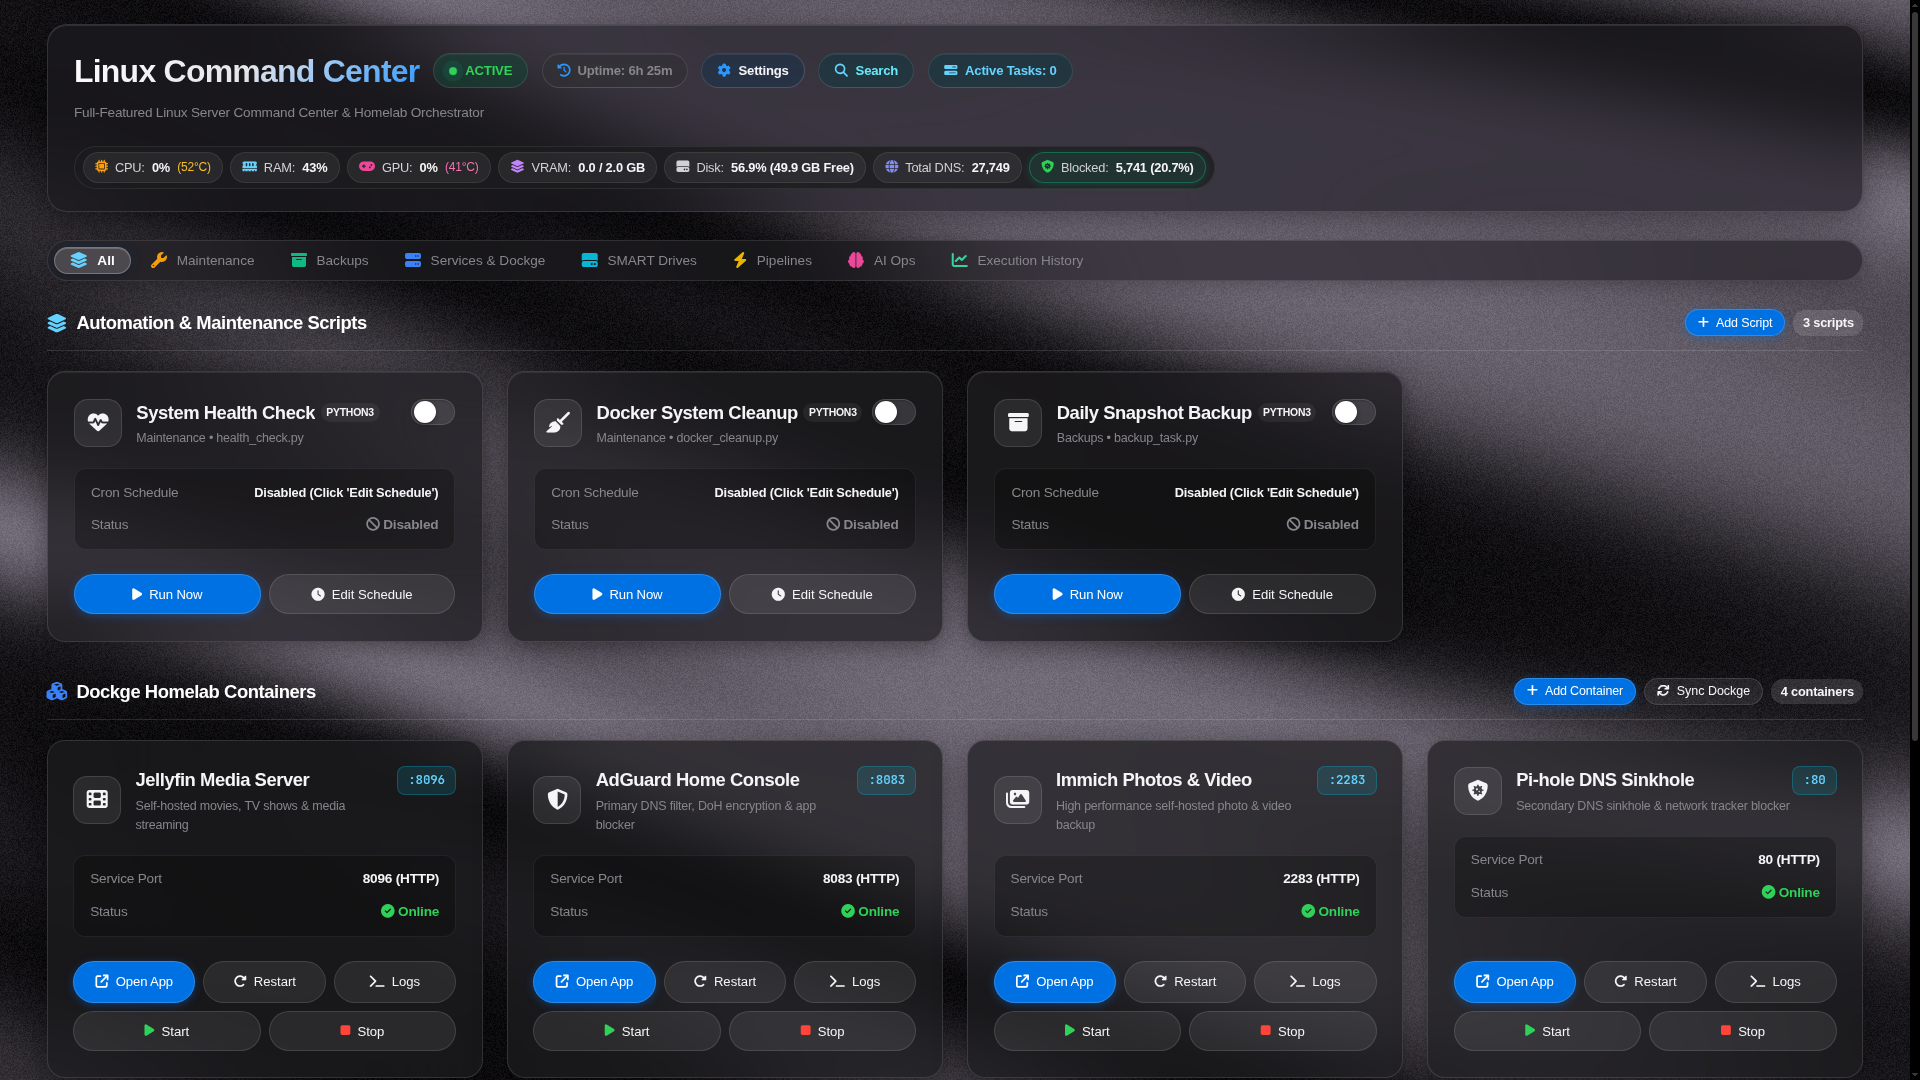
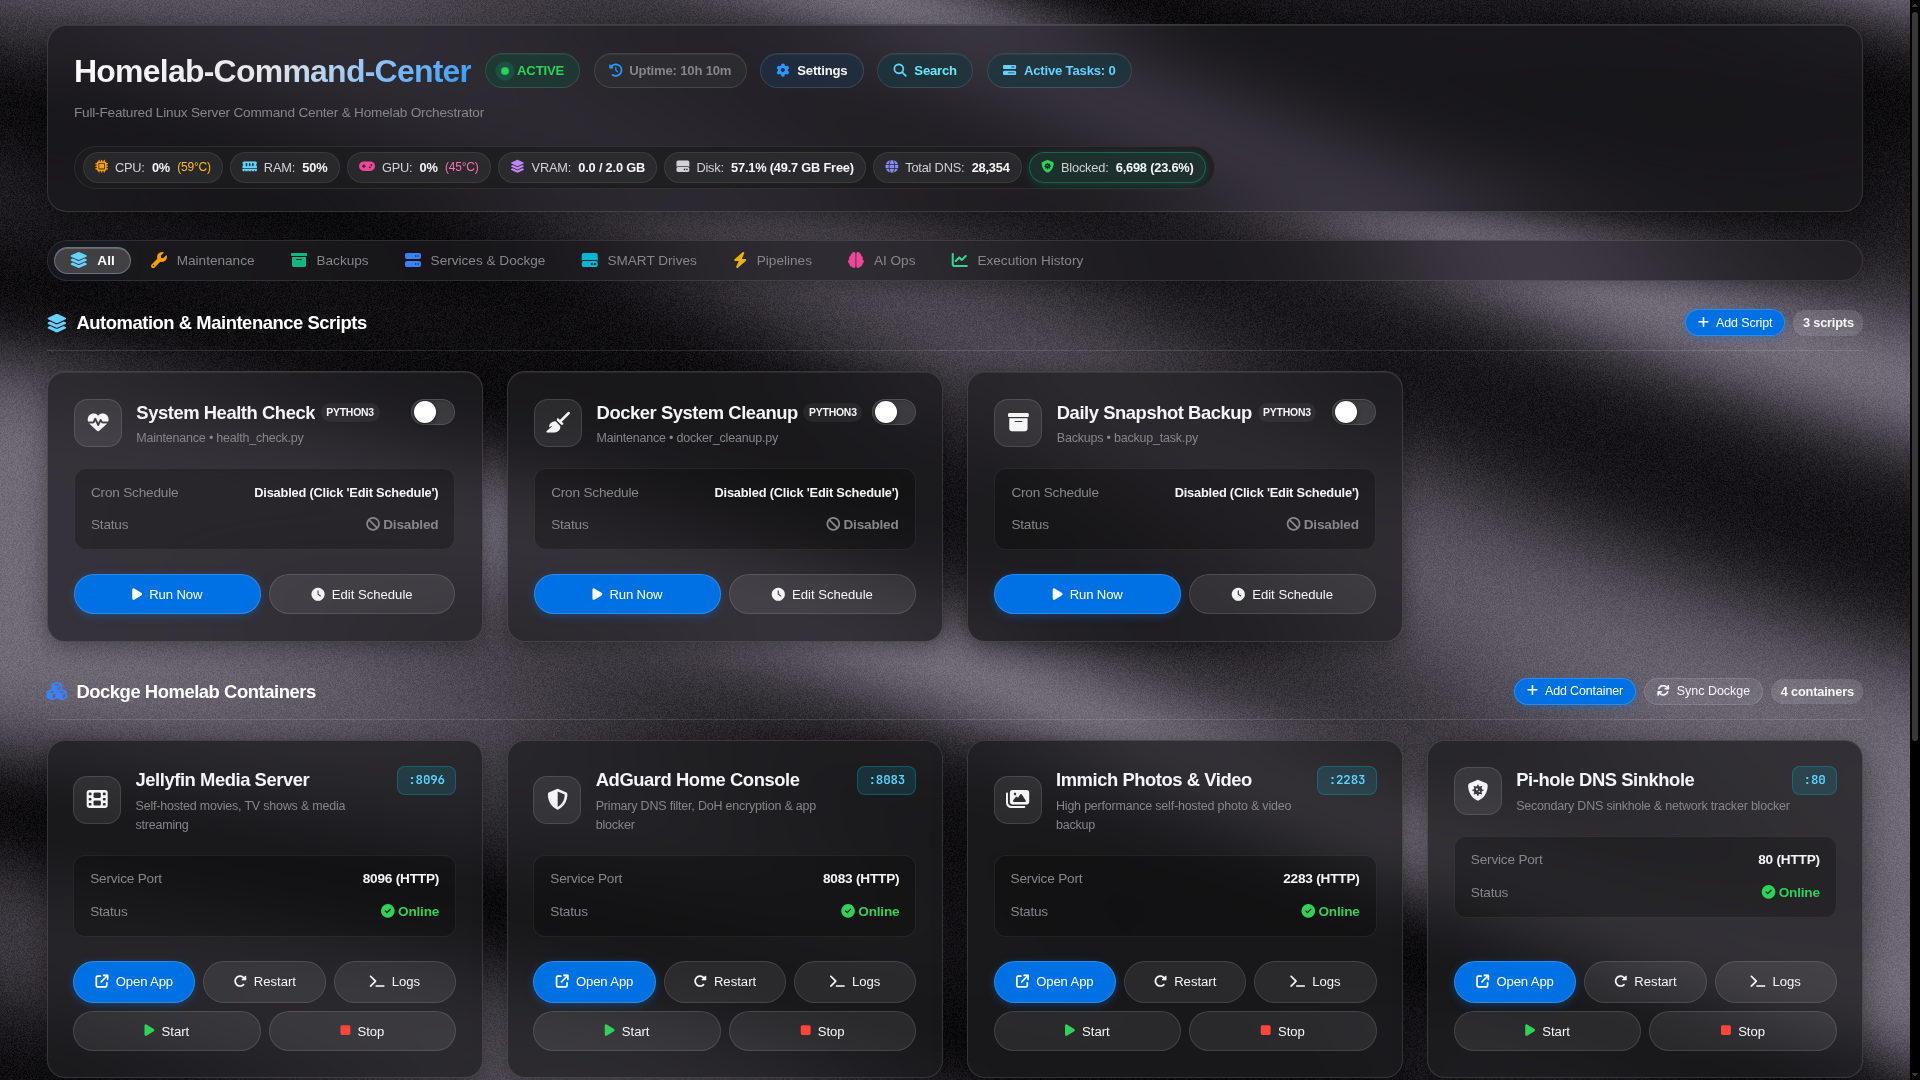
chore(branding): rename project to Homelab-Command-Center and refresh showcase media

diff --git a/templates/index.html b/templates/index.html
@@ -3,7 +3,7 @@
 <head>
     <meta charset="UTF-8">
     <meta name="viewport" content="width=device-width, initial-scale=1.0, viewport-fit=cover">
-    <title>Linux Command Center</title>
+    <title>Homelab-Command-Center</title>
 
     <!-- Standard Favicon (PNG, ICO, or SVG) -->
     <link rel="icon" type="image/png" href="{{ url_for('static', filename='favicon.png') }}">
@@ -38,7 +38,7 @@
         <div class="header-left-col">
             <div class="header-top-row">
                 <div class="brand-title-group">
-                    <h1>Linux Command Center</h1>
+                    <h1>Homelab-Command-Center</h1>
                     <div id="env-badge" class="badge-live" style="background: rgba(48, 209, 88, 0.15); color: #30d158; border-color: rgba(48, 209, 88, 0.35);">
                         <div class="pulse-dot" id="env-pulse-dot" style="background: #30d158;"></div>
                         <span id="env-label">ACTIVE</span>

diff --git a/templates/lite.html b/templates/lite.html
@@ -841,7 +841,7 @@
     </div>
 
     <div class="footer" onclick="testPixelShift()">
-        Linux Command Center &bull; Low Bandwidth Mode &bull; Mobile & Android Compatible
+        Homelab-Command-Center &bull; Low Bandwidth Mode &bull; Mobile & Android Compatible
     </div>
 
     <script>

diff --git a/static/sw.js b/static/sw.js
@@ -1,5 +1,5 @@
 // Progressive Web App Service Worker
-const CACHE_NAME = 'linux-command-center-v1';
+const CACHE_NAME = 'homelab-command-center-v1';
 
 self.addEventListener('install', (event) => {
     self.skipWaiting();

diff --git a/routes/scripts.py b/routes/scripts.py
@@ -516,7 +516,7 @@ def fetch_log_content_for_id(script_id, max_chars=25000):
     # 3. Check if script_id is a verified systemd unit
     systemd_services = get_all_systemd_services()
     u_match = next((s for s in systemd_services if s.get("id") == script_id or s.get("unit", "").startswith(script_id)), None)
-    if u_match or script_id in ["jellyfin", "all-in-one-dash", "linux-command-center"]:
+    if u_match or script_id in ["jellyfin", "all-in-one-dash", "homelab-command-center", "linux-command-center"]:
         unit_name = u_match.get("unit") if u_match else (f"{script_id}.service" if not script_id.endswith(".service") else script_id)
         try:
             res = subprocess.run(["journalctl", "-u", unit_name, "-n", "100", "--no-pager"], capture_output=True, text=True, timeout=2)

diff --git a/app.py b/app.py
@@ -21,7 +21,7 @@ from routes import (
 )
 
 app = Flask(__name__)
-app.config['SECRET_KEY'] = 'linux-command-center-secret-key-change-me'
+app.config['SECRET_KEY'] = 'homelab-command-center-secret-key-change-me'
 
 # Register modular blueprints
 app.register_blueprint(main_bp)
@@ -36,5 +36,5 @@ app.register_blueprint(smart_storage_bp)
 app.register_blueprint(opencode_bp)
 
 if __name__ == "__main__":
-    print(f"🚀 Linux Command Center starting on http://{HOST}:{PORT}")
+    print(f"🚀 Homelab-Command-Center starting on http://{HOST}:{PORT}")
     app.run(host=HOST, port=PORT, debug=False)

diff --git a/services/process_manager.py b/services/process_manager.py
@@ -70,7 +70,7 @@ def send_alert(event_type="General", title="Alert", message="", details=None):
     if discord_url and discord_url.startswith("http"):
         try:
             payload = {
-                "username": "Linux Command Center",
+                "username": "Homelab-Command-Center",
                 "avatar_url": "https://raw.githubusercontent.com/walkxcode/dashboard-icons/main/png/docker.png",
                 "embeds": [{
                     "title": f"🔔 {title}",

diff --git a/cron_runner.py b/cron_runner.py
@@ -1,6 +1,6 @@
 #!/usr/bin/env python3
 """
-Cron Runner Wrapper for Linux Command Center.
+Cron Runner Wrapper for Homelab-Command-Center.
 Executes scheduled cron jobs, records the run into execution_history.json as 'Scheduled Cron',
 and sends alert notifications if configured.
 """

diff --git a/README.md b/README.md
@@ -1,11 +1,11 @@
-# Linux Command Center
+# Homelab-Command-Center
 
 A modern, fast, modular **web-based Command Center** for home servers, homelabs, Linux VPS, and multi-service server orchestration.
 
 Designed to work dynamically out of the box on any Linux distribution with zero hardcoded paths or environment-specific dependencies.
 
 <p align="center">
-  <img src="docs/assets/launch_preview.gif" alt="Linux Command Center Dashboard Preview" width="100%" />
+  <img src="docs/assets/launch_preview.gif" alt="Homelab-Command-Center Dashboard Preview" width="100%" />
 </p>
 
 <p align="center">
@@ -69,8 +69,8 @@ Designed to work dynamically out of the box on any Linux distribution with zero 
 ### 1. Clone the repository
 
 ```bash
-git clone https://github.com/lZXGl/linux-command-center.git
-cd linux-command-center
+git clone https://github.com/lZXGl/Homelab-Command-Center.git
+cd Homelab-Command-Center
 ```
 
 ### 2. Install dependencies
@@ -101,7 +101,7 @@ Open **`http://<server-ip>:5000`** in your browser.
 ## Architecture
 
 ```
-linux-command-center/
+Homelab-Command-Center/
 ├── app.py                     # Flask application entrypoint
 ├── config.py                  # Core configuration & dynamic environment loader
 ├── cron_runner.py             # Crontab execution wrapper & history logger
@@ -136,7 +136,7 @@ linux-command-center/
 │   └── backup_task.py         # Daily snapshot verification
 ├── static/                    # Shaders, JS, CSS and static assets
 ├── systemd/                   # Systemd unit template
-│   └── linux-command-center.service.example
+│   └── homelab-command-center.service.example
 └── templates/
     ├── index.html             # Full-featured single-page dashboard UI
     └── lite.html              # Ultra-fast kiosk & mobile lite UI
@@ -146,13 +146,13 @@ linux-command-center/
 
 ## Systemd Service (Auto-start on Boot)
 
-To run Linux Command Center as a systemd background service:
+To run Homelab-Command-Center as a systemd background service:
 
 ```bash
-sudo cp systemd/linux-command-center.service.example /etc/systemd/system/linux-command-center.service
-sudo nano /etc/systemd/system/linux-command-center.service   # Adjust User and WorkingDirectory
+sudo cp systemd/homelab-command-center.service.example /etc/systemd/system/homelab-command-center.service
+sudo nano /etc/systemd/system/homelab-command-center.service   # Adjust User and WorkingDirectory
 sudo systemctl daemon-reload
-sudo systemctl enable --now linux-command-center.service
+sudo systemctl enable --now homelab-command-center.service
 ```
 
 ---
